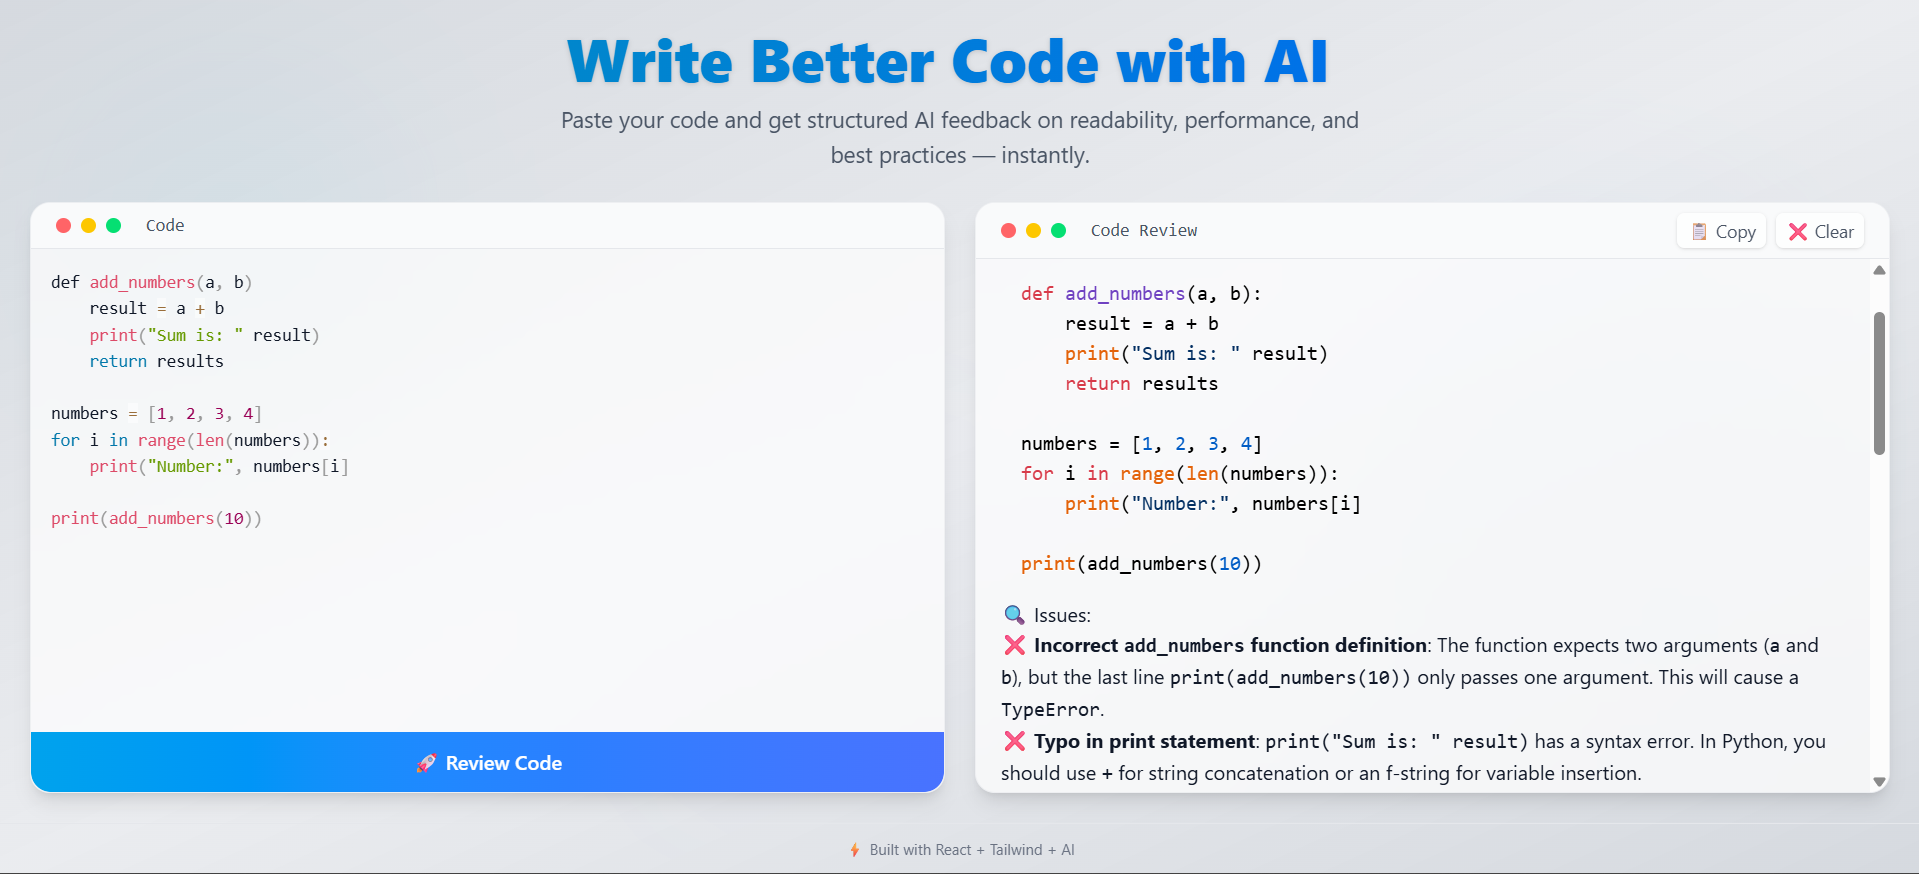
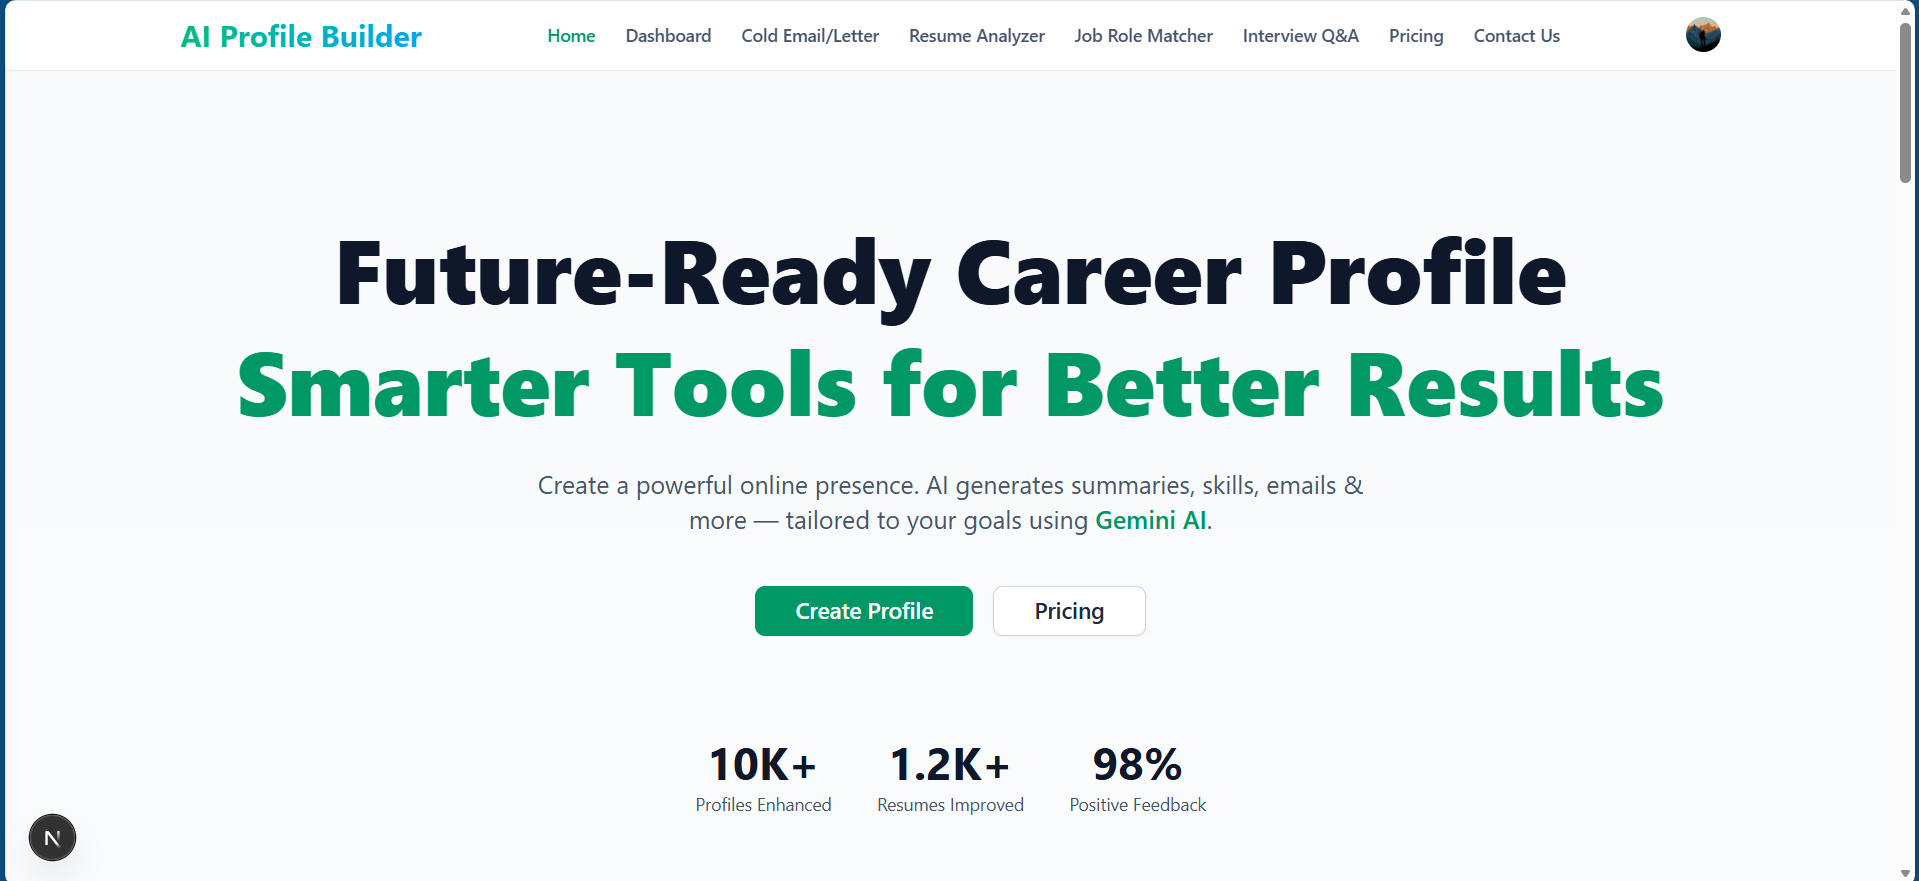
updated: resume link, hero pic, added project

diff --git a/src/constants/index.js b/src/constants/index.js
@@ -206,10 +206,65 @@ const testimonials = [
 ];
 
 const projects = [
+
+  {
+    name: "Elevatr",
+    description:
+      "Elevatr is a modern profile-enhancing platform built with Next.js, PostgreSQL, Clerk that helps users generate AI-crafted professional content including profile summaries, skill suggestions, cold emails, cover letters, and comprehensive resume analysis.",
+    tags: [
+      {
+        name: "NextJS",
+        color: "blue-text-gradient",
+      },
+      {
+        name: "TypeScript",
+        color: "green-text-gradient",
+      },
+      {
+        name: "SaaS",
+        color: "pink-text-gradient",
+      },
+    ],
+    image: review,
+    source_code_link: "https://github.com/PRATYAKSH15/Elevatr",
+    demo_link: "http://www.demo.com",
+  },
+
+  {
+    name: "GuidelyAI",
+    description:
+      "GuidelyAI is an AI-powered career guide built with Next.js, PostgreSQL, Clerk, and Inngest. It provides personalized career recommendations and insights, helping students and professionals make better decisions with a secure, seamless, and scalable platform.",
+    tags: [
+      {
+        name: "NextJS",
+        color: "blue-text-gradient",
+      },
+      {
+        name: "PostgreSQL",
+        color: "green-text-gradient",
+      },
+      {
+        name: "Clerk JWT",
+        color: "purple-text-gradient",
+      },
+      // {
+      //   name: "Inngest",
+      //   color: "orange-text-gradient",
+      // },
+      // {
+      //   name: "Gemini",
+      //   color: "pink-text-gradient",
+      // },
+    ],
+    image: guidelyai, // replace with imported image variable
+    source_code_link: "https://github.com/PRATYAKSH15/GuidelyAI",
+    demo_link: "", // add demo link if available
+  },
+
   {
     name: "MindNest",
     description:
-      "MindNest is a mental health companion platform that offers self-help resources, community forums, and personalized self-assessments. Built with React, TailwindCSS, Node.js, Express, and MongoDB, it ensures secure access with Clerk JWT while providing a clean and responsive user experience.",
+      "MindNest is a mental health companion platform that offers self-help resources, community forums, and personalized self-assessments, main aim is to provide foster a supportive community.",
       tags: [
       {
         name: "ReactJS",
@@ -241,63 +296,32 @@ const projects = [
     demo_link: "", // add demo link if available
   },
 
-  {
-    name: "GuidelyAI",
-    description:
-      "GuidelyAI is an AI-powered career guide built with Next.js, PostgreSQL, Clerk, and Inngest. It provides personalized career recommendations and insights, helping students and professionals make better decisions with a secure, seamless, and scalable platform.",
-    tags: [
-      {
-        name: "NextJS",
-        color: "blue-text-gradient",
-      },
-      {
-        name: "PostgreSQL",
-        color: "green-text-gradient",
-      },
-      {
-        name: "Clerk JWT",
-        color: "purple-text-gradient",
-      },
-      {
-        name: "Inngest",
-        color: "orange-text-gradient",
-      },
-      {
-        name: "Gemini",
-        color: "pink-text-gradient",
-      },
-    ],
-    image: guidelyai, // replace with imported image variable
-    source_code_link: "https://github.com/PRATYAKSH15/GuidelyAI",
-    demo_link: "", // add demo link if available
-  },
-
-  {
-    name: "AI Code Reviewer",
-    description:
-      "MERN-based web application that allows users to input source code and receive intelligent feedback using Google's Gemini AI. Designed with a sleek dark theme and typing animations.",
-    tags: [
-      {
-        name: "Reactjs",
-        color: "blue-text-gradient",
-      },
-      {
-        name: "Nodejs",
-        color: "green-text-gradient",
-      },
-      {
-        name: "GenAI",
-        color: "pink-text-gradient",
-      },
-      {
-        name: "AI Integration",
-        color: "green-text-gradient",
-      },
-    ],
-    image: review,
-    source_code_link: "https://github.com/PRATYAKSH15/AI-code-reviewer",
-    demo_link: "http://www.demo.com",
-  },
+  // {
+  //   name: "AI Code Reviewer",
+  //   description:
+  //     "MERN-based web application that allows users to input source code and receive intelligent feedback using Google's Gemini AI. Designed with a sleek dark theme and typing animations.",
+  //   tags: [
+  //     {
+  //       name: "Reactjs",
+  //       color: "blue-text-gradient",
+  //     },
+  //     {
+  //       name: "Nodejs",
+  //       color: "green-text-gradient",
+  //     },
+  //     {
+  //       name: "GenAI",
+  //       color: "pink-text-gradient",
+  //     },
+  //     {
+  //       name: "AI Integration",
+  //       color: "green-text-gradient",
+  //     },
+  //   ],
+  //   image: review,
+  //   source_code_link: "https://github.com/PRATYAKSH15/AI-code-reviewer",
+  //   demo_link: "http://www.demo.com",
+  // },
   {
     name: "NutriTrack - AI Nutrition Assistant",
     description:

diff --git a/src/components/Contact.jsx b/src/components/Contact.jsx
@@ -37,7 +37,7 @@ const socials = [
     color: "from-gray-600 to-gray-900",
   },
   {
-    href: "https://drive.google.com/file/d/1xl383m-TirHq7uA-yoPNEu2kmW-zkPNn/view?usp=drivesdk",
+    href: "https://drive.google.com/file/d/1J1hn-SFLw7YPpP9AFwaNfveio9HU5W5Z/view?usp=drivesdk",
     icon: <FaEye />,
     label: "Resume",
     color: "from-green-400 to-emerald-600",

diff --git a/src/components/Hero.jsx b/src/components/Hero.jsx
@@ -93,7 +93,7 @@ const Hero = () => {
           {/* Resume Button */}
           <div className="mt-6">
             <a
-              href="https://drive.google.com/file/d/1xl383m-TirHq7uA-yoPNEu2kmW-zkPNn/view?usp=drivesdk"
+              href="https://drive.google.com/file/d/1J1hn-SFLw7YPpP9AFwaNfveio9HU5W5Z/view?usp=drivesdk"
               target="_blank"
               rel="noopener noreferrer"
               className="inline-block px-6 py-3 rounded-2xl border-white-100 bg-gradient-to-r from-purple-800 to-purple-500 text-white font-semibold text-lg shadow-md hover:shadow-xl hover:-translate-y-1 hover:scale-105 transition-all duration-300"